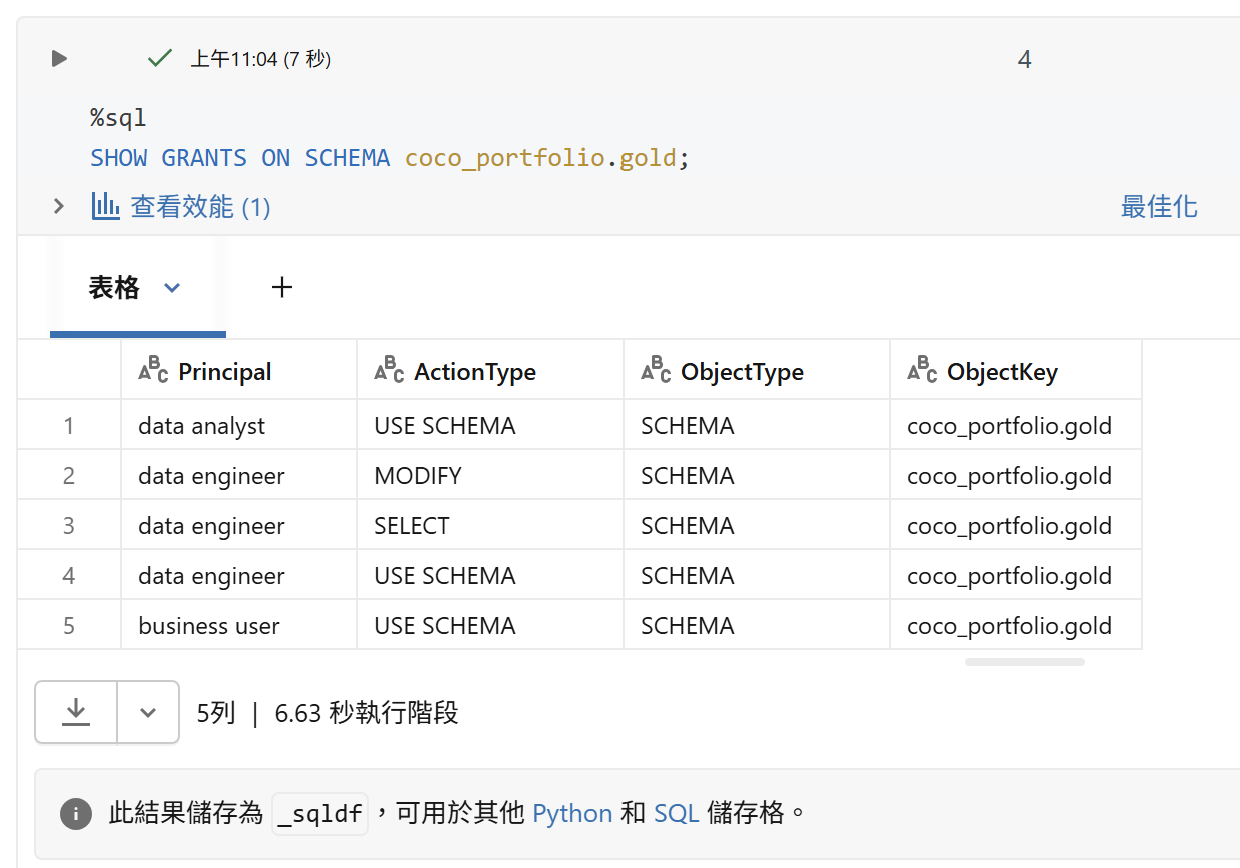
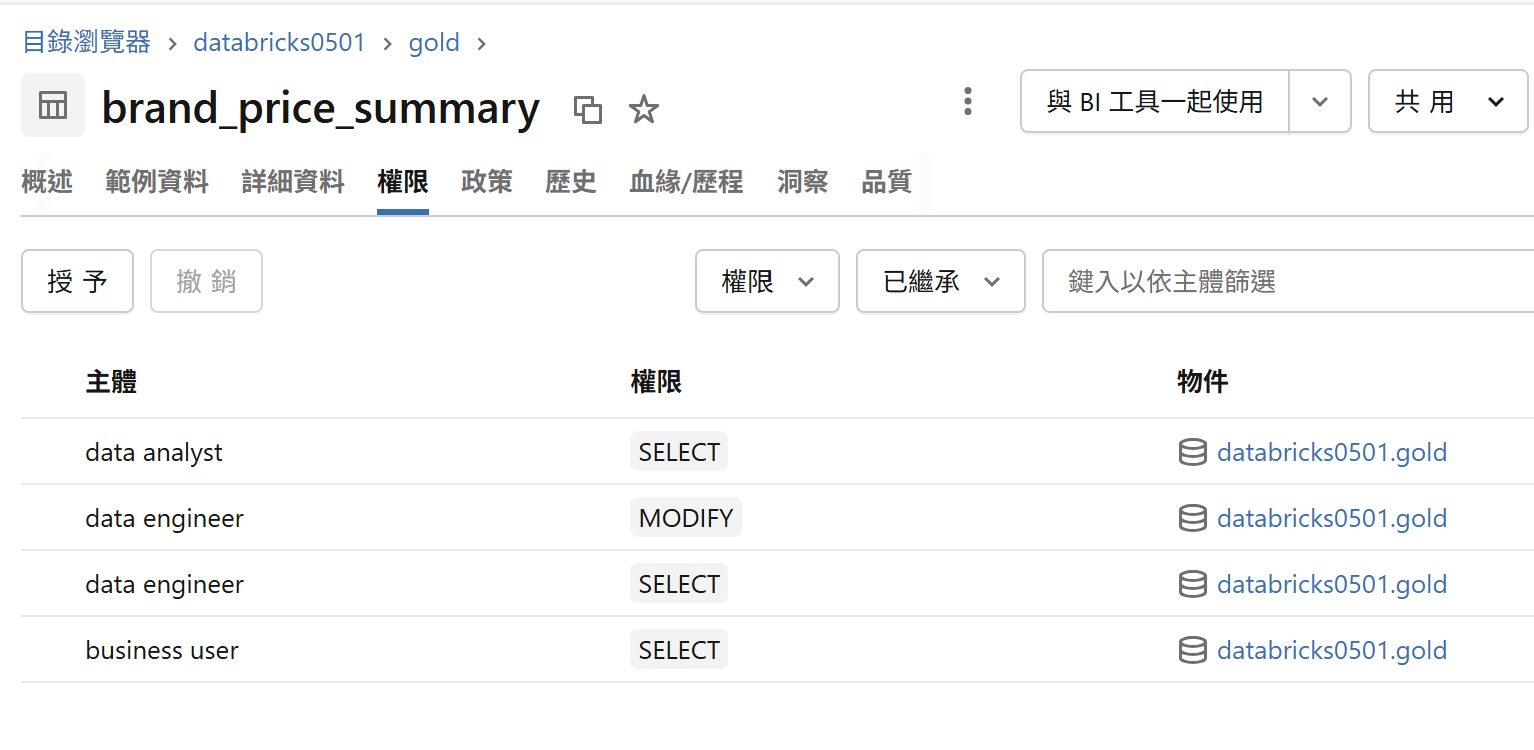
data governance

diff --git a/notebooks/00_governance_permissions.py b/notebooks/00_governance_permissions.py
@@ -1,0 +1,42 @@
+# Databricks notebook source
+# MAGIC %sql
+# MAGIC -- Data Engineer
+# MAGIC GRANT USE CATALOG ON CATALOG databricks0501 TO `data engineer`;
+# MAGIC
+# MAGIC GRANT SELECT, MODIFY ON SCHEMA databricks0501.bronze TO `data engineer`;
+# MAGIC GRANT SELECT, MODIFY ON SCHEMA databricks0501.silver TO `data engineer`;
+# MAGIC GRANT SELECT, MODIFY ON SCHEMA databricks0501.gold TO `data engineer`;
+# MAGIC
+# MAGIC
+
+# COMMAND ----------
+
+# MAGIC %sql
+# MAGIC -- Data Analyst
+# MAGIC GRANT USE CATALOG ON CATALOG databricks0501 TO `data analyst`;
+# MAGIC
+# MAGIC GRANT USE SCHEMA ON SCHEMA databricks0501.silver TO `data analyst`;
+# MAGIC GRANT USE SCHEMA ON SCHEMA databricks0501.gold TO `data analyst`;
+
+# COMMAND ----------
+
+# MAGIC %sql
+# MAGIC -- Business User
+# MAGIC GRANT USE CATALOG ON CATALOG databricks0501 TO `business user`;
+# MAGIC GRANT USE SCHEMA ON SCHEMA databricks0501.gold TO `business user`;
+# MAGIC
+
+# COMMAND ----------
+
+# MAGIC %sql
+# MAGIC SHOW GRANTS ON SCHEMA databricks0501.gold;
+
+# COMMAND ----------
+
+# MAGIC %sql
+# MAGIC SHOW GRANTS ON SCHEMA databricks0501.silver;
+
+# COMMAND ----------
+
+# MAGIC %sql
+# MAGIC SHOW GRANTS ON SCHEMA databricks0501.bronze;
